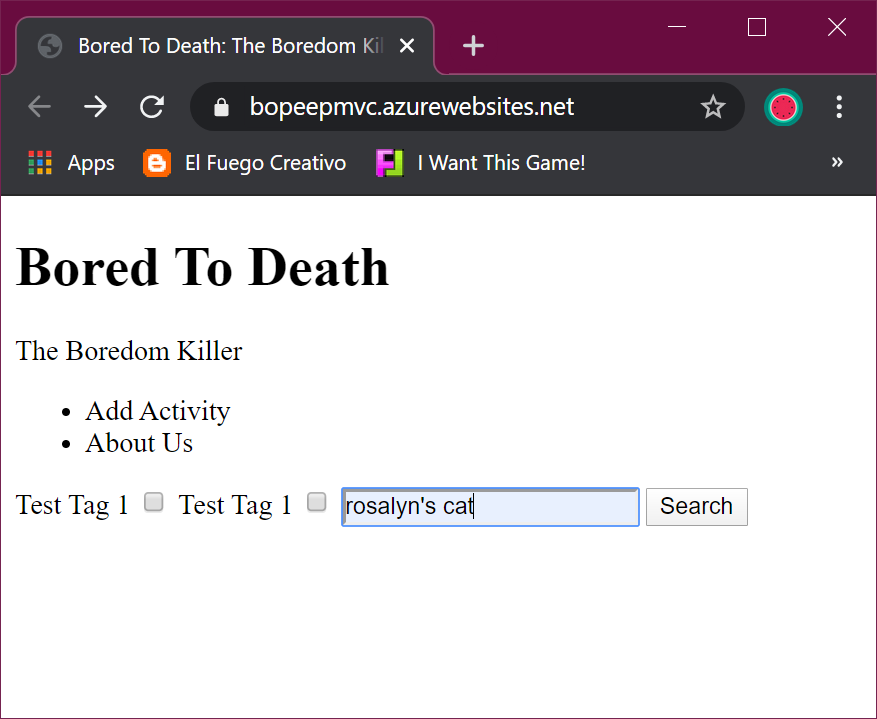
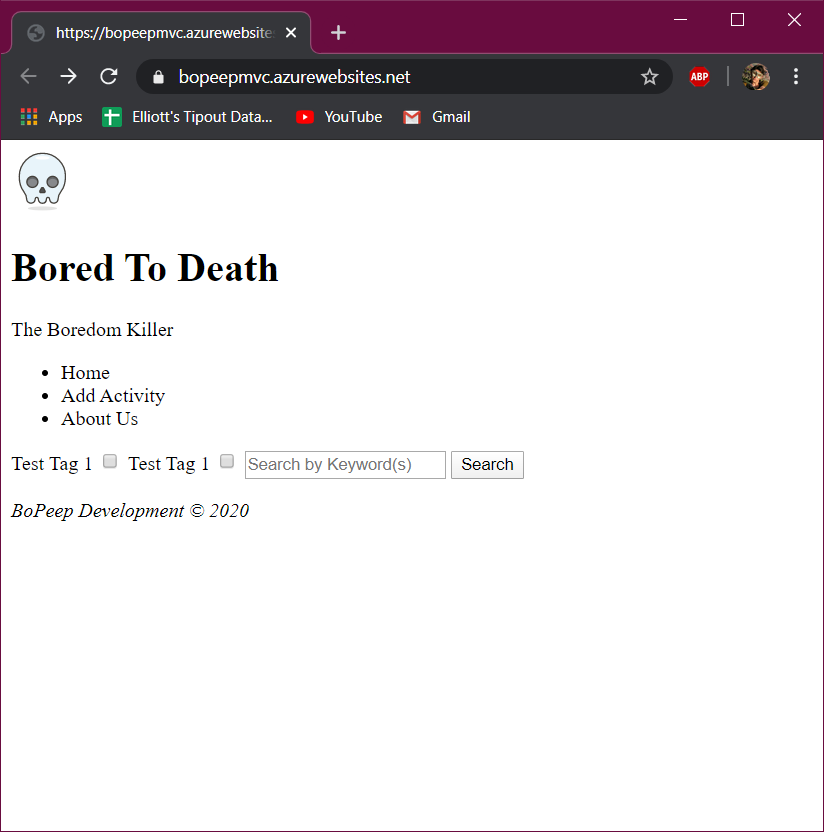
implements activities model and new api endpoint with foreach listings. updates screenshots

diff --git a/BoPeepMVC/BoPeepMVC/wwwroot/StyleSheet.css b/BoPeepMVC/BoPeepMVC/wwwroot/StyleSheet.css
@@ -1,0 +1,2 @@
+body {
+}

diff --git a/BoPeepMVC/BoPeepMVC/Models/Activity.cs b/BoPeepMVC/BoPeepMVC/Models/Activity.cs
@@ -2,6 +2,7 @@
 using System.Collections.Generic;
 using System.Linq;
 using System.Net.Http;
+using System.Text.Json.Serialization;
 using System.Threading.Tasks;
 
 namespace BoPeepMVC.Models
@@ -13,26 +14,34 @@ namespace BoPeepMVC.Models
         //public string ApiResponse { get; set; }
 
         //db id of activity
+        [JsonPropertyName("id")]
         public int ID { get; set; }
 
+        [JsonPropertyName("title")]
         public string Title { get; set; }
 
+        [JsonPropertyName("description")]
         public string Description { get; set; }
 
         //user's existing rating
         //will only be necessary once users are implemented in some way
+        [JsonPropertyName("rate")]
         public int Rate { get; set; }
 
         //aggregate rating
+        [JsonPropertyName("rating")]
         public double Rating { get; set; }
 
         //whether inside or outside
-        public string Location { get; set; }
+        [JsonPropertyName("location")]
+        public int Location { get; set; }
 
         //link to external article/source/purchase page
+        [JsonPropertyName("externallink")]
         public string ExternalLink { get; set; }
 
         //url for header/icon image
+        [JsonPropertyName("imageurl")]
         public string ImageURL { get; set; }
     }
 }

diff --git a/BoPeepMVC/BoPeepMVC/Controllers/HomeController.cs b/BoPeepMVC/BoPeepMVC/Controllers/HomeController.cs
@@ -12,7 +12,7 @@ namespace BoPeepMVC.Controllers
 {
     public class HomeController : Controller
     {
-        private IActivityManager _activity;
+        private readonly IActivityManager _activity;
         public HomeController(IActivityManager activity)
         {
             _activity = activity;
@@ -29,20 +29,15 @@ namespace BoPeepMVC.Controllers
         }
 
         [HttpPost]
-        public async Task<IActionResult> Index(string keyword)
+        public IActionResult Index(string keyword)
         {
-            string response = await _activity.GetHello();
-            return RedirectToAction("Results", new { response, keyword });
+            return RedirectToAction("Results", new { keyword });
         }
 
-        public IActionResult Results(string response, string keyword)
+        public async Task<IActionResult> Results(string keyword)
         {
-            Activity activity = new Activity
-            {
-                Keyword = keyword,
-                ApiResponse = response
-            };
-            return View("Results", activity);
+            List<Activity> response = await _activity.GetActivities();
+            return View("Results", response);
         }
         
     }

diff --git a/BoPeepMVC/BoPeepMVC/Models/Services/ActivityService.cs b/BoPeepMVC/BoPeepMVC/Models/Services/ActivityService.cs
@@ -18,15 +18,15 @@ namespace BoPeepMVC.Models.Services
         /// Returns "Hello World" from deployed API
         /// </summary>
         /// <returns>string of response</returns>
-        public async Task<string> GetHello()
+        public async Task<List<Activity>> GetActivities()
         {
-            string route = "hello";
+            string route = "activities";
 
             client.DefaultRequestHeaders.Accept.Clear();
             client.DefaultRequestHeaders.Accept.Add(new MediaTypeWithQualityHeaderValue("application/json"));
 
             var streamTask = await client.GetStreamAsync($"{baseURL}/{route}");
-            var response = await JsonSerializer.DeserializeAsync<string>(streamTask);
+            var response = await JsonSerializer.DeserializeAsync<List<Activity>>(streamTask);
 
             return response;
         }

diff --git a/BoPeepMVC/BoPeepMVC/Models/Interfaces/IActivityManager.cs b/BoPeepMVC/BoPeepMVC/Models/Interfaces/IActivityManager.cs
@@ -7,6 +7,6 @@ namespace BoPeepMVC.Models.Interfaces
 {
     public interface IActivityManager
     {
-        public Task<string> GetHello();
+        public Task<List<Activity>> GetActivities();
     }
 }
